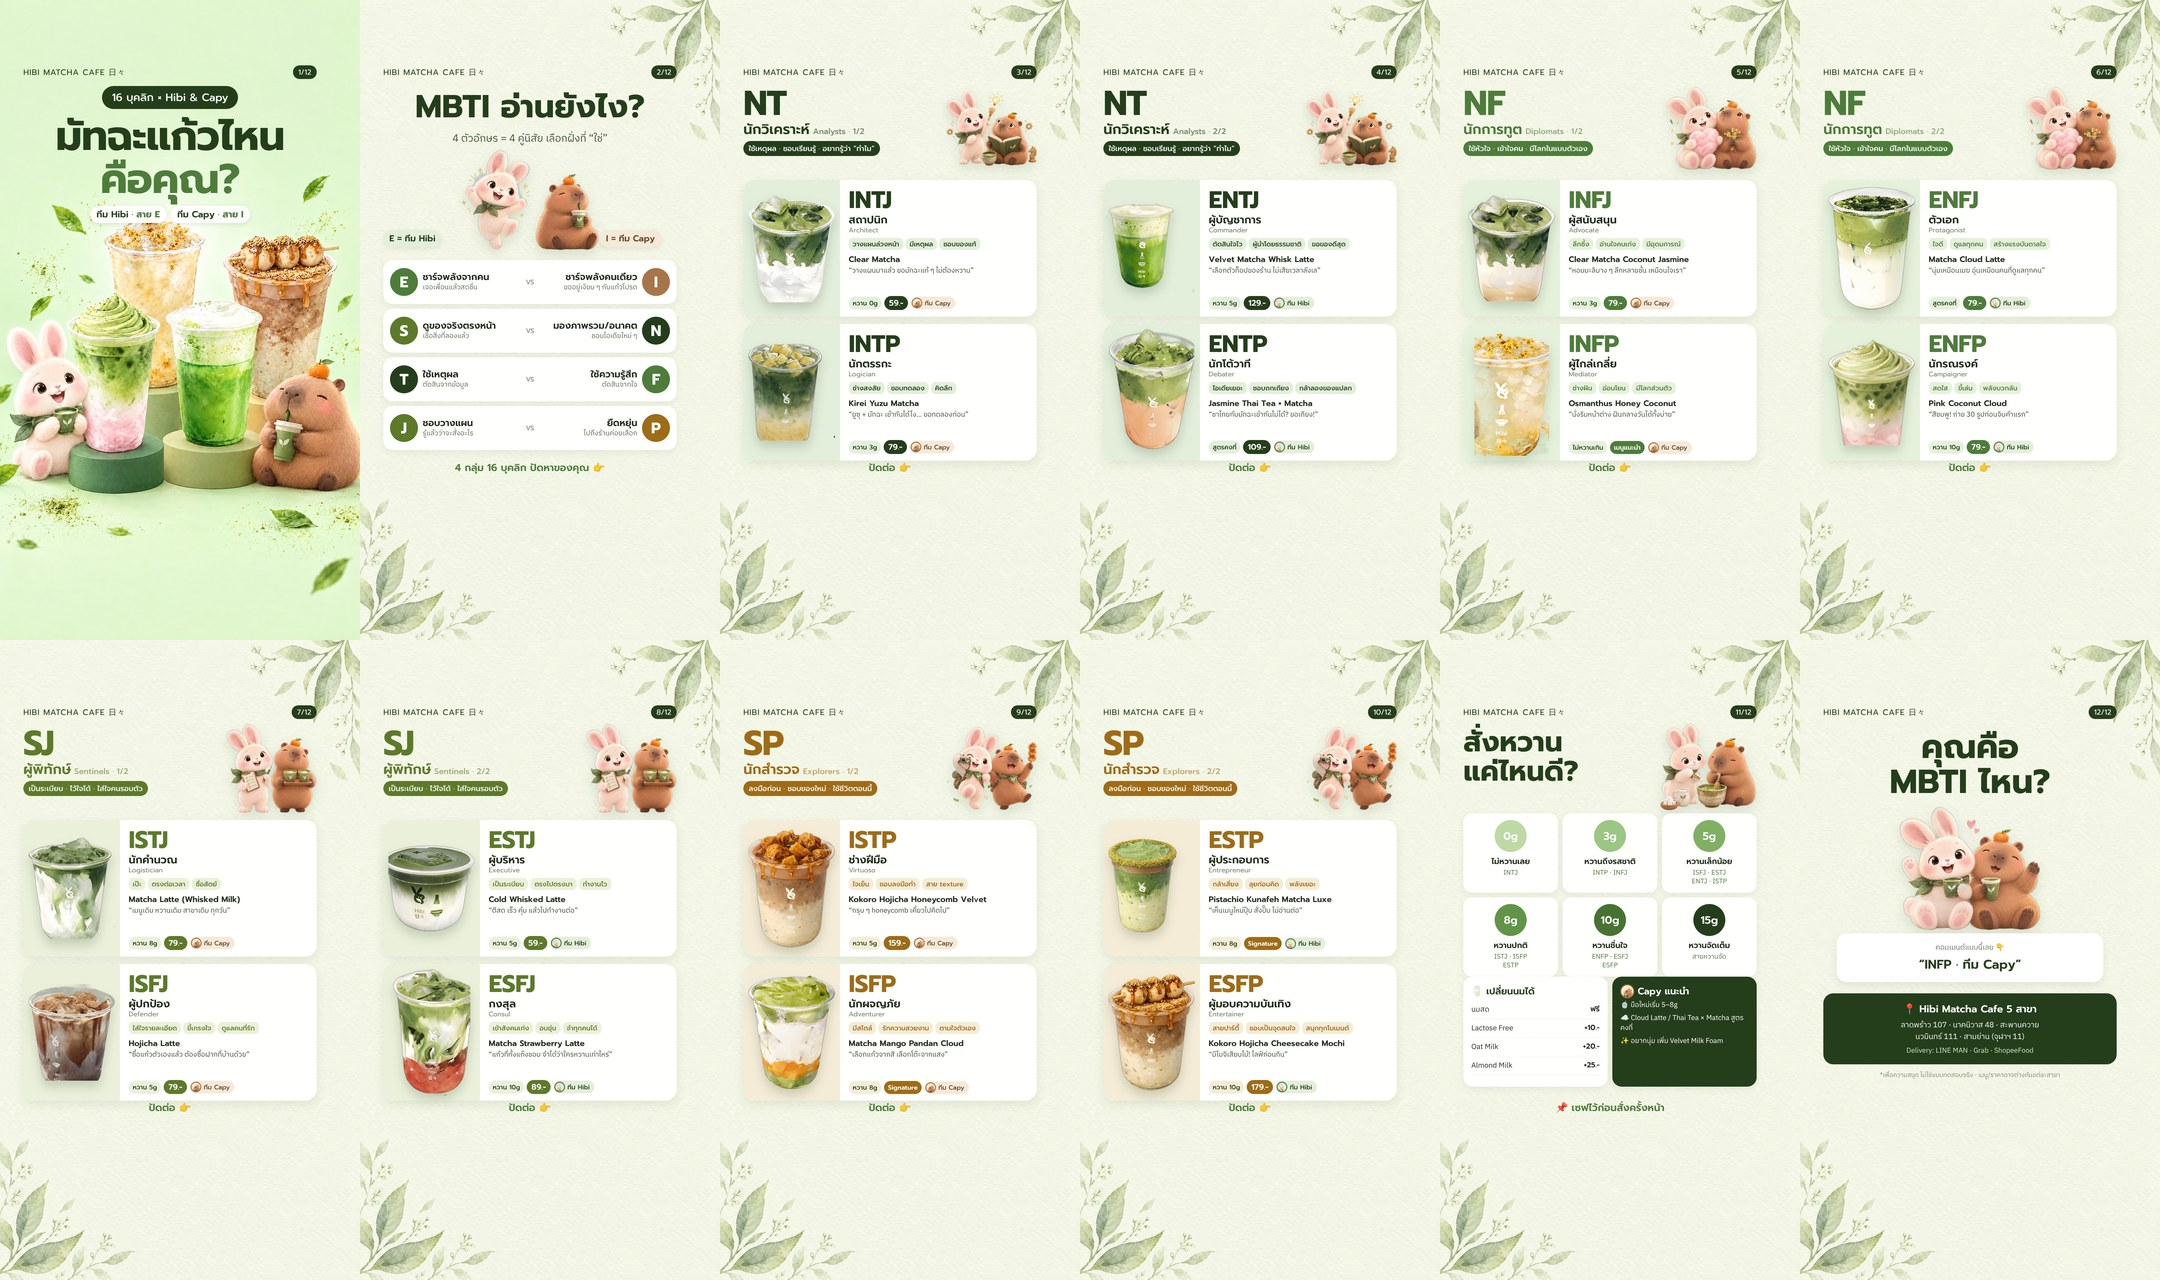
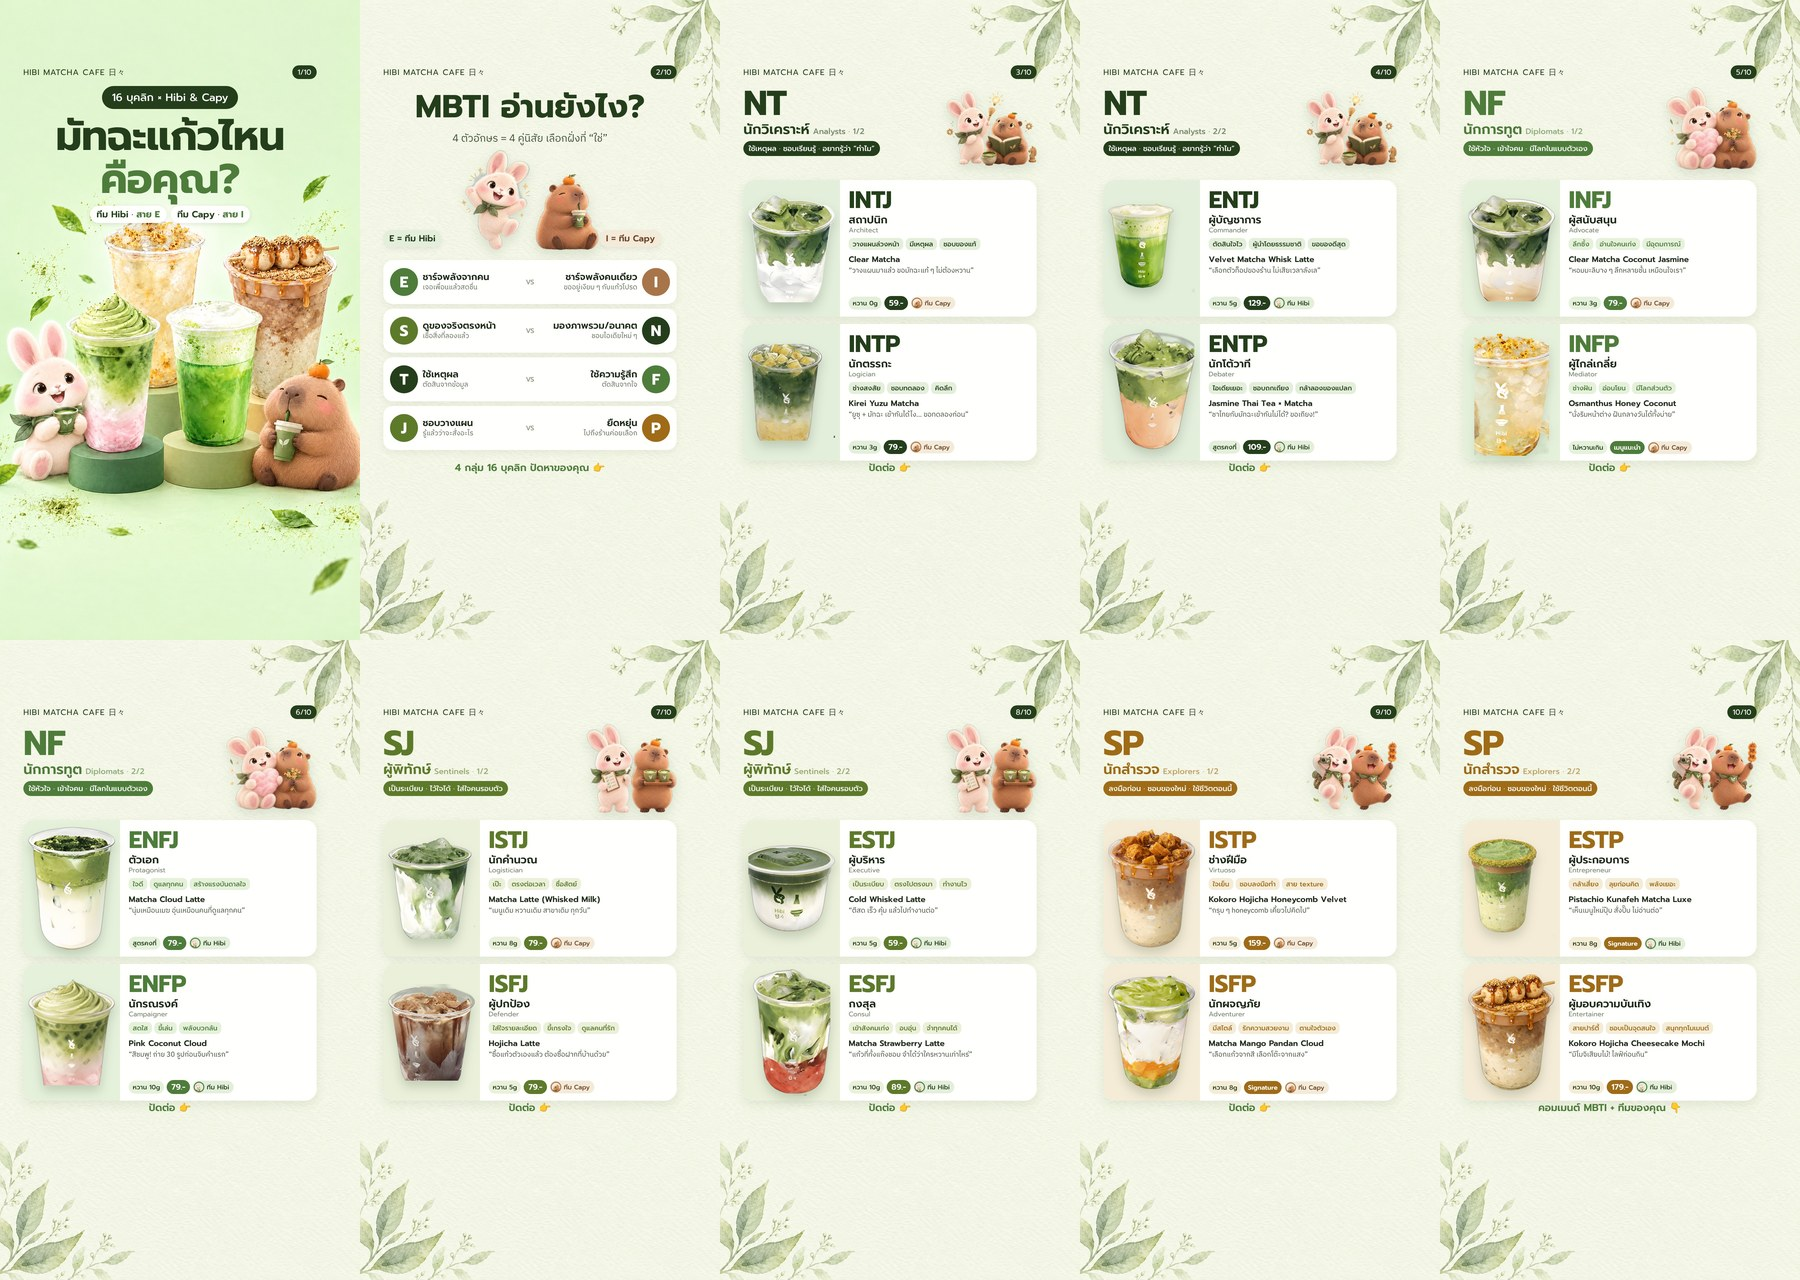
TikTok version: trim to 10 images (TikTok limit)
Claude-Session: https://claude.ai/code/session_019v9CAxCxqD3EqyHWdLwpMA

diff --git a/docs/content-plan/campaigns/mbti-carousel/build_tiktok.py b/docs/content-plan/campaigns/mbti-carousel/build_tiktok.py
@@ -7,7 +7,7 @@ ns = {"__file__": f"{D}/build3.py"}; exec(src, ns)
 img, avatar, GROUPS, FONTS = ns["img"], ns["avatar"], ns["GROUPS"], ns["FONTS"]
 ART = lambda n: img(n, "art", maxh=1100)
 OUT = f"{D}/out_tk"; os.makedirs(OUT, exist_ok=True)
-TOTAL = 12
+TOTAL = 10  # TikTok photo posts: max 10 images
 W, H = 1080, 1920
 
 BASE = FONTS + """
@@ -100,7 +100,7 @@ GCSS = """
 .price{font-family:'Prompt';font-weight:600;font-size:24px;color:#fff;border-radius:22px;padding:3px 14px}
 .sweet{font-family:'Prompt';font-weight:500;font-size:19px;border-radius:22px;padding:5px 12px;color:#243e1b}
 """
-def group_page(n, g, part):
+def group_page(n, g, part, last=False):
     code, name, ename, kw, tag, col, tint, art, items = g
     cards = ""
     for t, nick, enick, traits, a, en, th, price, sw, q in items[part*2:part*2+2]:
@@ -118,7 +118,7 @@ def group_page(n, g, part):
 <div class="kw" style="background:{col}">{kw}</div></div>
 <img class="art" src="{ART(art)}" style="left:680px;top:250px;width:270px;height:270px;object-fit:contain">
 <div class="cards">{cards}</div>"""
-    return page(n, body, GCSS)
+    return page(n, body, GCSS, swipe="คอมเมนต์ MBTI + ทีมของคุณ 👇" if last else "ปัดต่อ 👉")
 
 SCSS = """
 .h1{position:absolute;top:262px;left:70px;font-family:'Prompt';font-weight:700;font-size:84px;color:#243e1b;line-height:1.05}
@@ -170,8 +170,7 @@ def end():
 
 slides = [cover(), explain()]
 for g in GROUPS:
-    slides += [group_page(len(slides) + 1, g, 0), group_page(len(slides) + 2, g, 1)]
-slides += [sweet(), end()]
+    slides += [group_page(len(slides) + 1, g, 0), group_page(len(slides) + 2, g, 1, last=g is GROUPS[-1])]
 for n, html in enumerate(slides, 1):
     p = f"{OUT}/t{n}.html"; open(p, "w").write(html)
     png = f"{OUT}/HIBI_MBTI_TT_{n:02d}.png"
